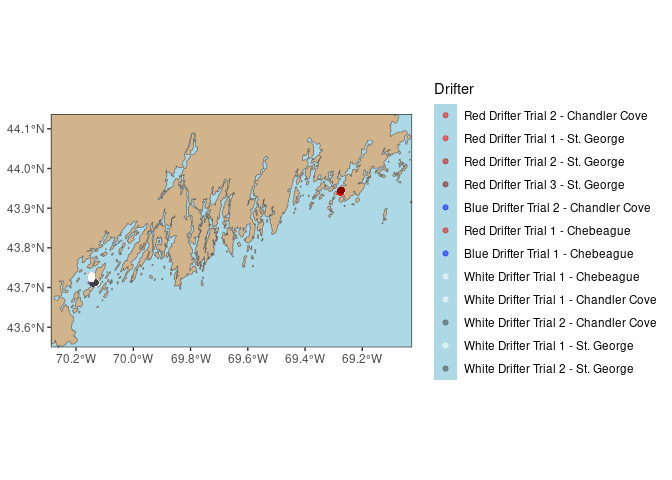
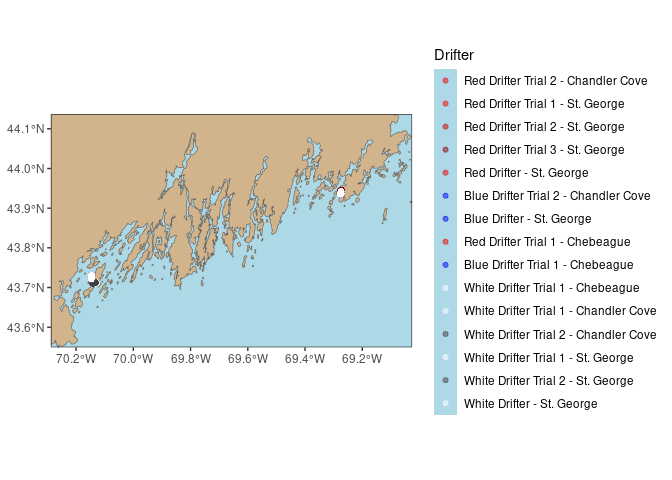
Aug 5 2025 Deep Cove added

Changed region(s): [[0.625, 0.0938, 1.0, 0.875], [0.5, 0.375, 0.5312, 0.4062]]

diff --git a/README.md b/README.md
@@ -49,7 +49,12 @@ tbi_4 = import_gpx(filename = "/mnt/ecocast/projects/koliveira/subprojects/drift
   purrr::pluck("tracks") |>
   drift_speed()
 
-tbi = dplyr::bind_rows(tbi_1, tbi_2, tbi_3, tbi_4)
+tbi_5 = import_gpx(filename = "/mnt/ecocast/projects/koliveira/subprojects/drifter/inst/ex_data/TBI_drifts/TBI_drifts_05_08_2025.GPX",
+                   form = "sf") |>
+  purrr::pluck("tracks") |>
+  drift_speed()
+
+tbi = dplyr::bind_rows(tbi_1, tbi_2, tbi_3, tbi_4, tbi_5)
 ```
 
 ### Read in kelp farm plots
@@ -106,3 +111,7 @@ forward.
 ### Chebeague 16-July-2025
 
 ![](README_files/figure-gfm/cheb-1.png)<!-- -->
+
+### Deep Cove 13-May-2025
+
+![](README_files/figure-gfm/deep_cove3-1.png)<!-- -->
